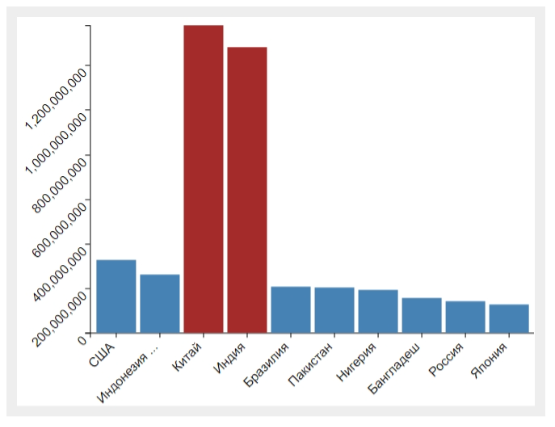
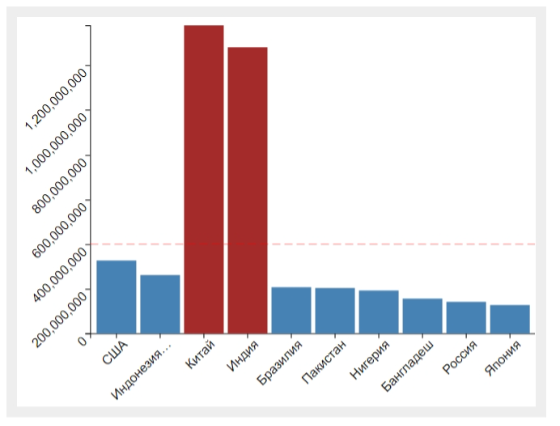
add over line

diff --git a/src/draw.ts b/src/draw.ts
@@ -1,11 +1,13 @@
 import { InData } from "./in_data";
 import * as d3 from "d3";
 
-export function crop_string(s :string, maxLen :number = 0) :string {
-  if(s.length > maxLen && maxLen !== 0)
-    return s.substring(0,maxLen) + '...'
-  else
+export function truncate_str(s :string, maxLen :number = 0) :string {
+  if(s.length > maxLen && maxLen !== 0){
+    var end = '…';
+    return s.substring(0,maxLen - end.length) + end;
+  } else {
     return s;
+  }
 }
 
 export function draw(elementSelector :string, in_data :InData){
@@ -14,28 +16,36 @@ export function draw(elementSelector :string, in_data :InData){
   width = +svg.attr("width") - margin.left - margin.right,
   height = +svg.attr("height") - margin.top - margin.bottom;
 
+  in_data.labels = in_data.labels.map( s => truncate_str(s,10));
   var x = d3.scaleBand().rangeRound([0, width]).padding(0.1);
-  var y = d3.scaleLinear().rangeRound([height, 0]);
+  x.domain(in_data.labels);
 
+  var maxY = d3.max(in_data.values/*, d=>d*/); 
+  var y = d3.scaleLinear()
+    .rangeRound([height, 0])
+    .domain([0, maxY ])
+  ;
+  
   var g = svg.append("g")
     .attr("transform", "translate(" + margin.left + "," + margin.top + ")")
   ;
 
-  in_data.labels = in_data.labels.map( s => crop_string(s,10));
-  x.domain(in_data.labels);
-  var maxValue = d3.max(in_data.values/*, d=>d*/); 
-  y.domain([0, maxValue ]);
+  if (in_data.overValue || in_data.overValue === 0)
+    svg.append("path")
+      .attr("d","M0,0l"+width+",0")
+      .attr('stroke','red')
+      .attr('stroke-width','.5')
+      .attr('stroke-dasharray','10,5')
+      .attr('transform', `translate(${margin.left},${margin.top+y(in_data.overValue)})`)
+  ;
 
   g.append("g")
     .attr("class", "axis axis--x")
     .attr("transform", "translate(0," + height + ")")
     .call(d3.axisBottom(x))
-     .selectAll("text")
-     .attr("transform", "translate(-20,0)rotate(-45)")
-    //  .style("alignment-baseline", "after-edge")
-    .style("alignment-baseline", "central")
-    // .style("alignment-baseline", "middle")
-    // .style("alignment-baseline", "before-edge")
+    .selectAll("text")
+    .attr("transform", "rotate(-45)")
+    .style("alignment-baseline", "baseline")
     .style("text-anchor", "end")
     .style("font-size", '16px')
     .style("fill", "black")
